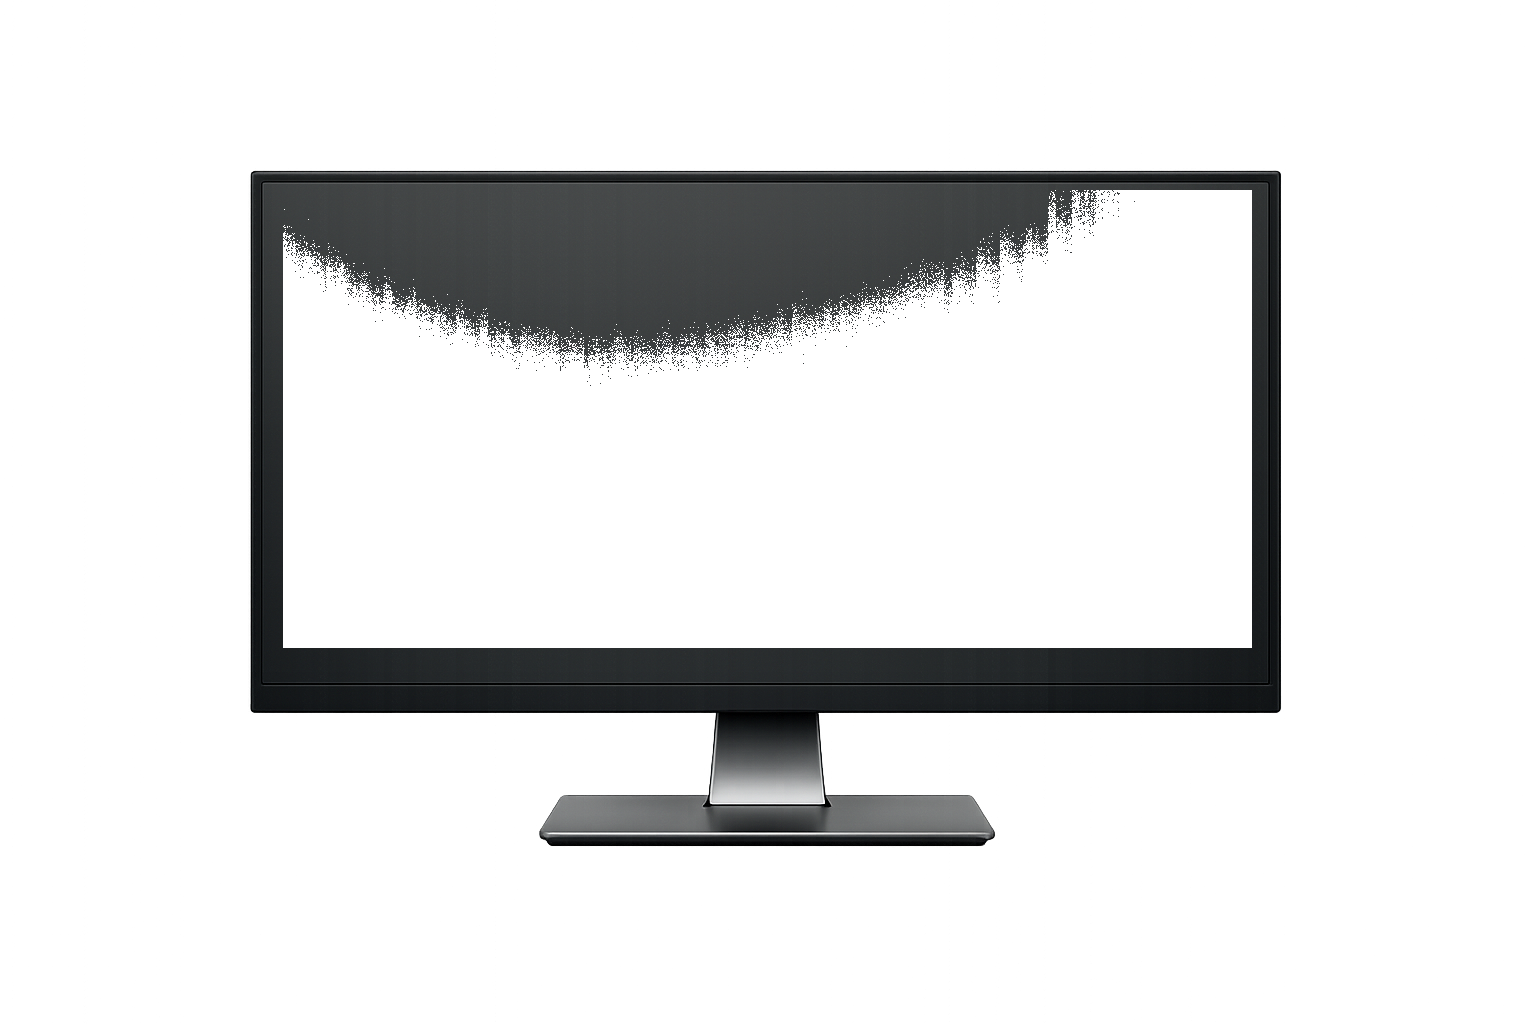
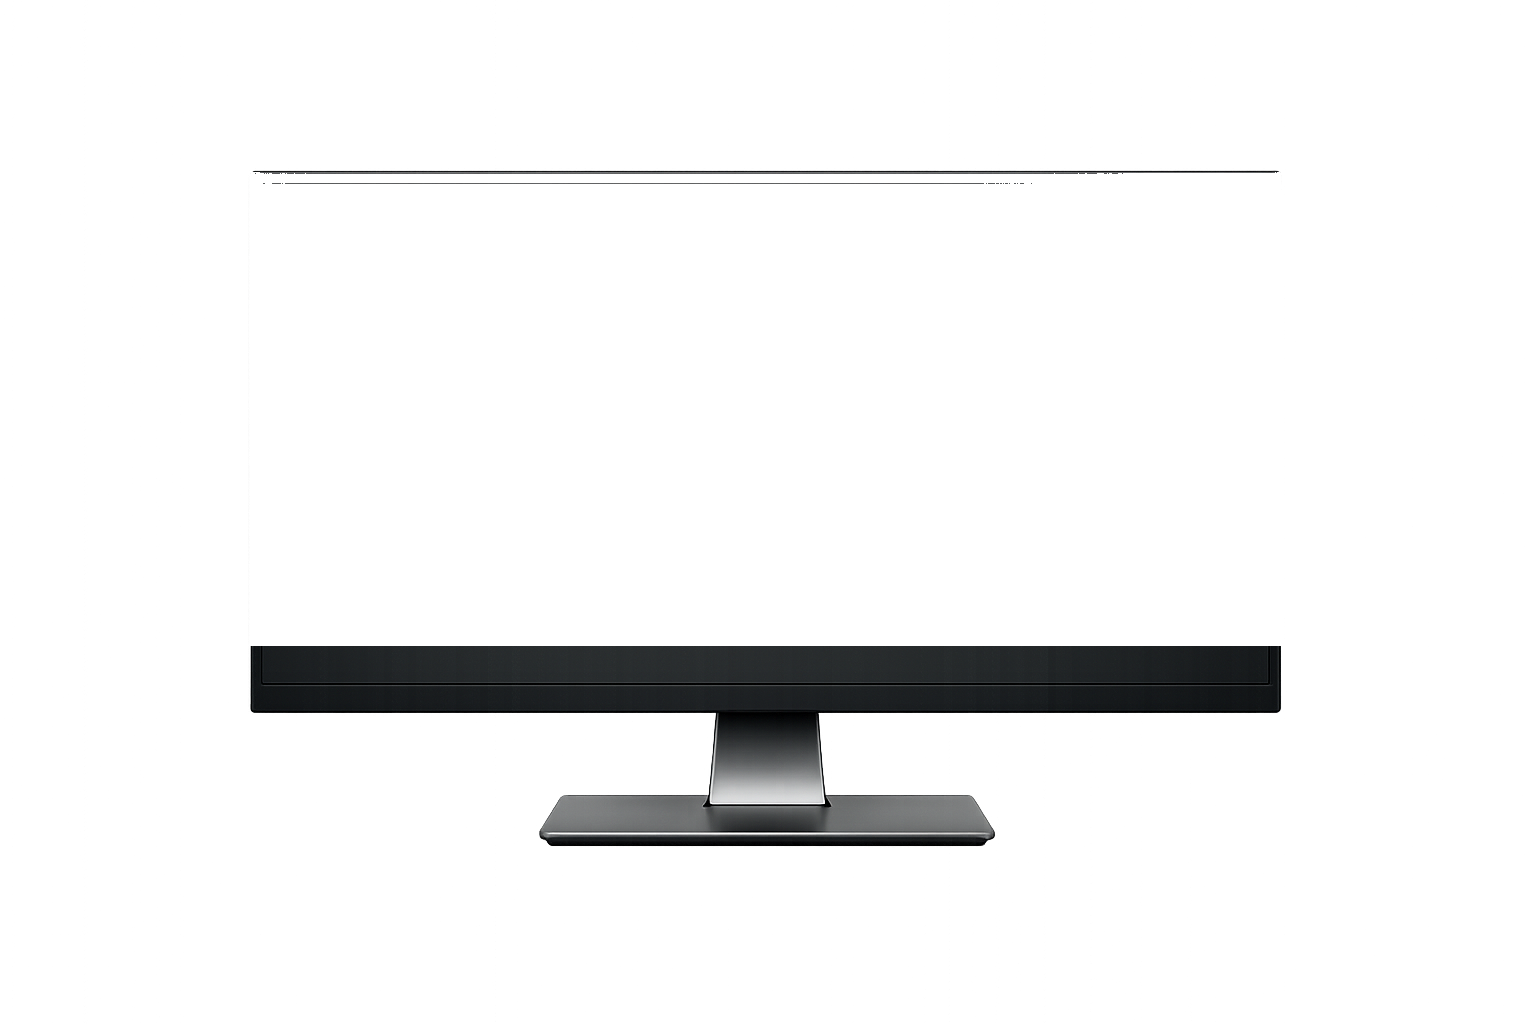
fix(social-kit): post tienes-web — cutout completo + texto 3 líneas
- Recorte pantalla rehecho desde coordenadas reales (248-1283×172-646,
  umbral R<90): 486K px transparentados vs 350K anterior, sin franjas
  oscuras en bordes de la demo
- width:max-content en .diag evita que "PÁGINA WEB?" parta en 2 líneas
- line-height 1.18→1.30 en .diag__l2 da más aire sobre la Á de PÁGINA

Changed region(s): [[0.1562, 0.1562, 0.8438, 0.6562]]

diff --git a/social-kit/personal/2026/07/01-post-backup-tienes-web/index.html b/social-kit/personal/2026/07/01-post-backup-tienes-web/index.html
@@ -97,14 +97,14 @@
       z-index: 6;
     }
 
-    /* Área de pantalla: coordenadas calculadas del recorte (px 283-1252 × 190-648)
+    /* Área de pantalla: coordenadas medidas pixel a pixel del recorte (248-1283 × 172-646)
        a la escala del monitor en CSS (factor = 920/1536 = 0.5990) */
     .monitor-screen {
       position: absolute;
-      left: 170px;   /* 283 × 0.5990 */
-      top:  114px;   /* 190 × 0.5990 */
-      width: 580px;  /* 969 × 0.5990 */
-      height: 274px; /* 458 × 0.5990 */
+      left: 149px;   /* 248 × 0.5990 */
+      top:  103px;   /* 172 × 0.5990 */
+      width: 622px;  /* 1035 × 0.5990 */
+      height: 282px; /* 474 × 0.5990 */
       overflow: hidden;
       border-radius: 1px;
       z-index: 1;
@@ -150,6 +150,7 @@
       top: 52%;
       left: 50%;
       transform: translate(-50%, -50%) rotate(-12deg);
+      width: max-content; /* evita que el browser parta "PÁGINA WEB?" en dos líneas */
       text-align: center;
       z-index: 10;
       pointer-events: none;
@@ -167,7 +168,7 @@
       line-height: 1.00;
     }
 
-    /* Línea 2 verde — espacio generoso abajo para que Á no choque */
+    /* Línea 2 verde — espacio extra abajo para que Á de "PÁGINA" no choque con "YA TIENE" */
     .diag__l2 {
       display: block;
       font-size: 122px;
@@ -175,7 +176,7 @@
       letter-spacing: .10em;
       text-transform: uppercase;
       color: var(--green-light);
-      line-height: 1.18;
+      line-height: 1.30;
     }
 
     /* ── ZONA INFERIOR ── */